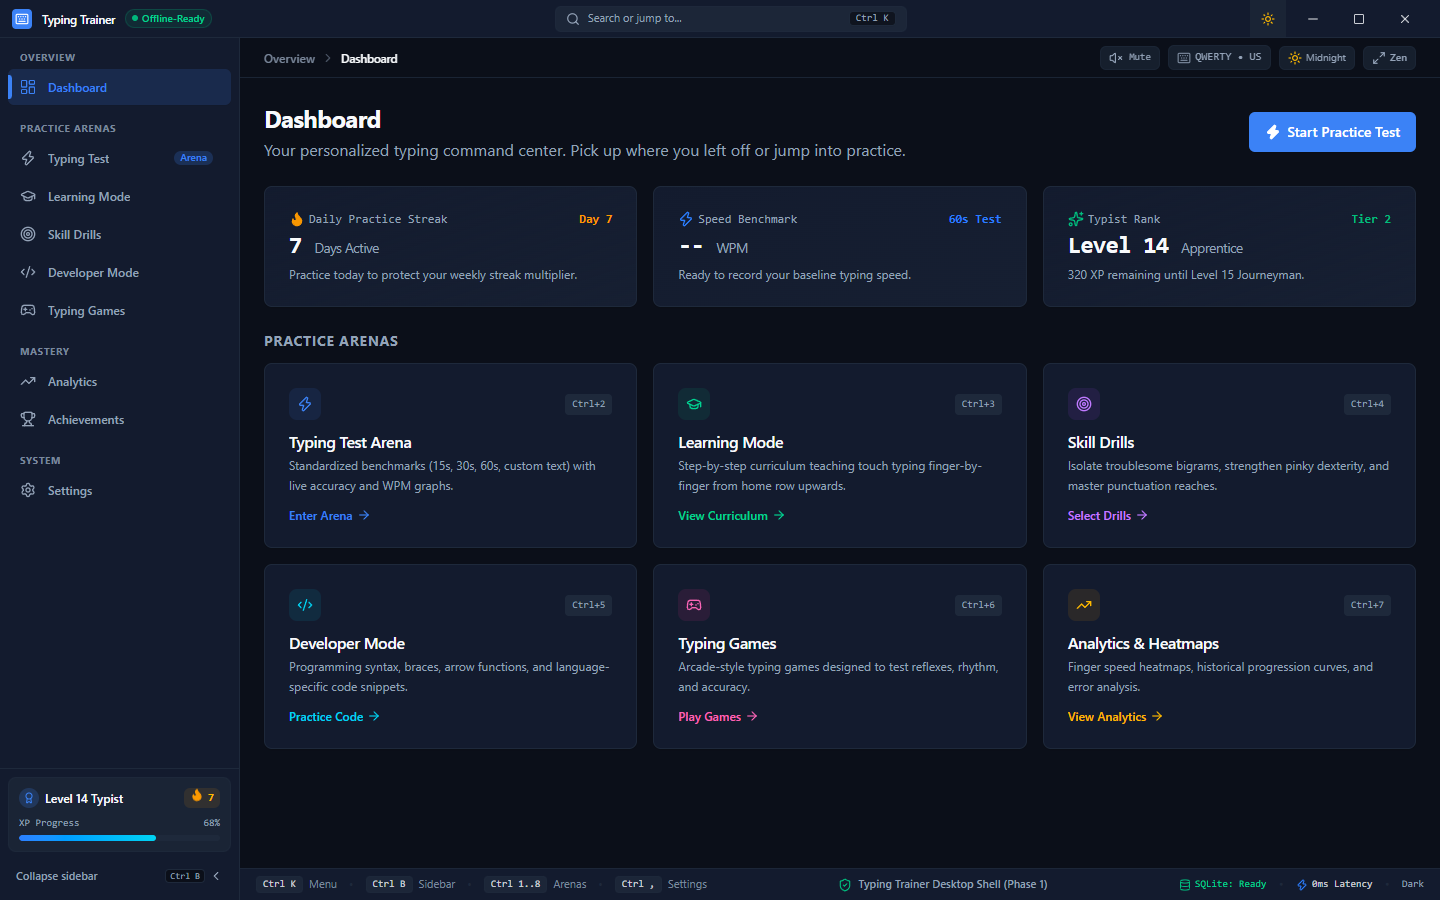
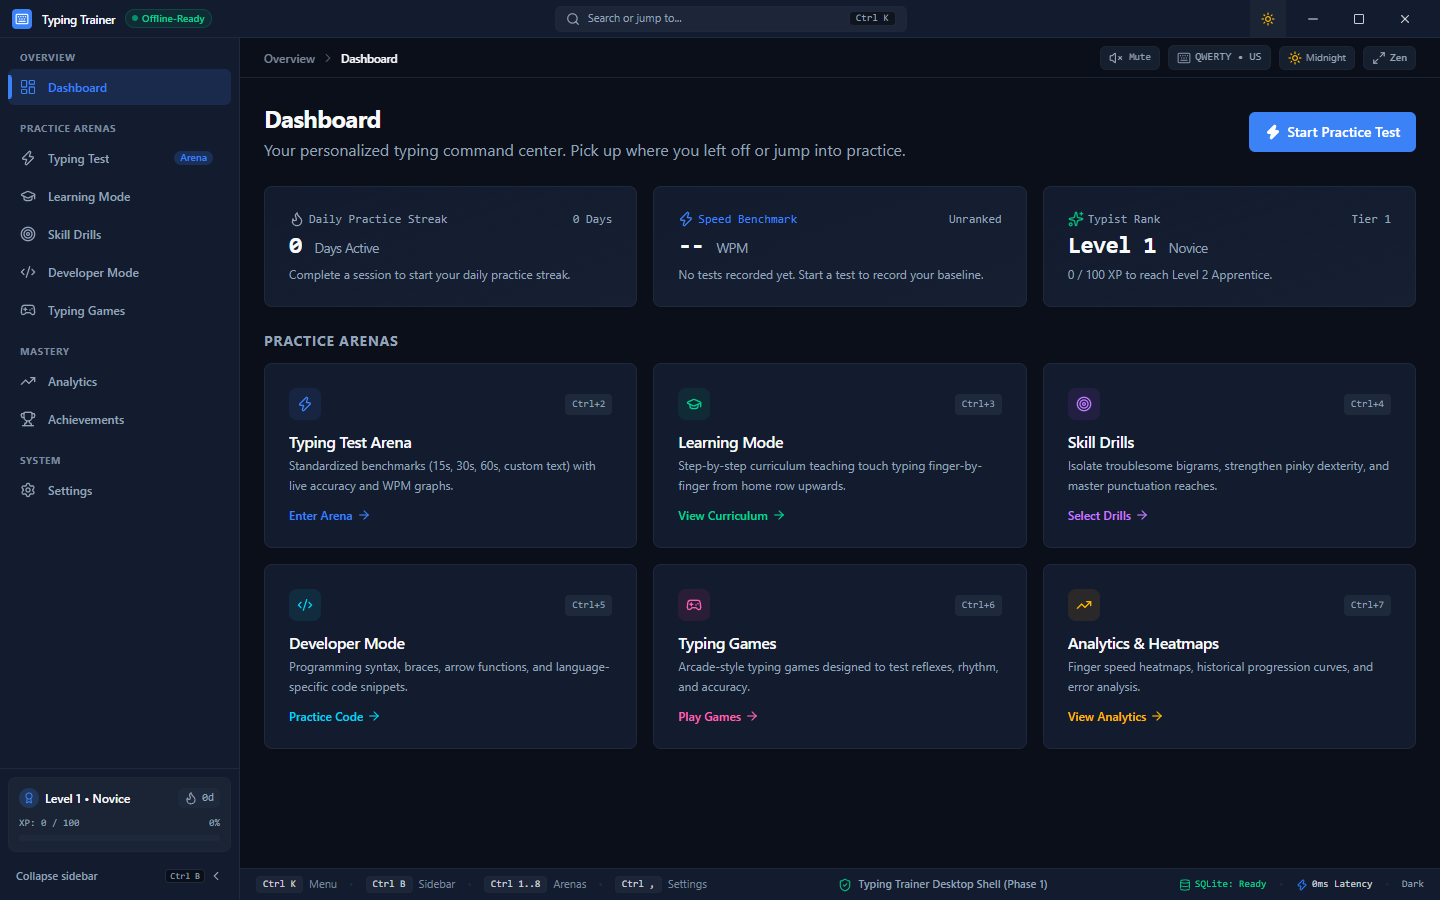
fix(desktop): reconcile phase 1 developer mode languages and data integrity

diff --git a/desktop/src/pages/DeveloperMode.tsx b/desktop/src/pages/DeveloperMode.tsx
@@ -1,37 +1,51 @@
 import { PageHeader } from "../components/layout/PageHeader";
 import { Card, CardHeader, CardTitle, CardDescription, CardContent } from "../components/ui/card";
 import { Button } from "../components/ui/button";
-import { Code2, Terminal, Cpu, FileCode2, Braces } from "lucide-react";
+import { Code2, Cpu, FileCode2, Braces, Database, Terminal, FileJson } from "lucide-react";
 
 export function DeveloperMode() {
-  const stacks = [
+  const tracks = [
     {
-      name: "TypeScript & React",
-      icon: FileCode2,
-      description: "JSX tags, generic types, arrow functions, and object destructuring.",
-      snippets: "24 Snippets",
-      symbolFocus: "< > { } [ ] => :",
-    },
-    {
-      name: "Rust & Systems",
-      icon: Cpu,
-      description: "Lifetimes, pattern matching, match expressions, and macro syntax.",
-      snippets: "20 Snippets",
-      symbolFocus: "& ' :: -> => | !",
-    },
-    {
-      name: "Java & Spring",
+      name: "Java",
       icon: Braces,
-      description: "Annotations, lambda streams, class hierarchies, and method references.",
+      description: "Static typing, object-oriented hierarchies, lambda streams, annotations, and semicolons.",
       snippets: "18 Snippets",
-      symbolFocus: "@ ( ) . ; :: ->",
+      symbolFocus: "@ ( ) . ; :: -> { }",
     },
     {
-      name: "Bash & CLI Scripts",
+      name: "TypeScript",
+      icon: FileCode2,
+      description: "Type annotations, generics, interfaces, union types, and modern arrow function syntax.",
+      snippets: "24 Snippets",
+      symbolFocus: "< > { } [ ] => : ;",
+    },
+    {
+      name: "JavaScript",
+      icon: Code2,
+      description: "Dynamic scripting, closures, async/await promises, object destructuring, and template literals.",
+      snippets: "22 Snippets",
+      symbolFocus: "` $ { } ( ) => ... ;",
+    },
+    {
+      name: "Python",
       icon: Terminal,
-      description: "Command pipelines, flags, environment variables, and shell redirects.",
+      description: "Semantic indentation, colons, list comprehensions, decorators, and snake_case naming.",
+      snippets: "20 Snippets",
+      symbolFocus: ": [ ] ( ) _ # @",
+    },
+    {
+      name: "SQL",
+      icon: Database,
+      description: "Relational database queries, uppercase DDL/DML keywords, joins, and aggregates.",
       snippets: "16 Snippets",
-      symbolFocus: "$ | > < - -- ;",
+      symbolFocus: ", ( ) ' ; * = != >=",
+    },
+    {
+      name: "Rust",
+      icon: Cpu,
+      description: "Memory safety, explicit lifetimes, pattern matching, macro calls, and dense operators.",
+      snippets: "20 Snippets",
+      symbolFocus: "& ' :: -> => | ! { }",
     },
   ];
 
@@ -39,18 +53,19 @@ export function DeveloperMode() {
     <div className="space-y-6">
       <PageHeader
         title="Developer Mode"
-        subtitle="Programming syntax training tailored for software engineers and code typing muscle memory."
+        subtitle="Programming syntax and symbol muscle memory drills across the approved D7 language tracks."
       />
 
-      <div className="grid grid-cols-1 md:grid-cols-2 gap-4">
-        {stacks.map((s, idx) => {
+      {/* 6 Approved Language Tracks */}
+      <div className="grid grid-cols-1 md:grid-cols-2 lg:grid-cols-3 gap-4">
+        {tracks.map((s, idx) => {
           const Icon = s.icon;
           return (
-            <Card key={idx} className="border border-border hover:border-primary/50 transition-all shadow-xs">
+            <Card key={idx} className="border border-border hover:border-primary/50 transition-all shadow-xs flex flex-col justify-between">
               <CardHeader className="pb-3">
-                <div className="flex items-center justify-between">
-                  <span className="text-[11px] font-mono font-medium text-primary bg-primary/10 px-2 py-0.5 rounded">
-                    Symbols: {s.symbolFocus}
+                <div className="flex items-center justify-between mb-1">
+                  <span className="text-[10px] font-mono font-medium text-primary bg-primary/10 px-2 py-0.5 rounded">
+                    {s.symbolFocus}
                   </span>
                   <span className="text-xs font-mono text-muted-foreground">{s.snippets}</span>
                 </div>
@@ -62,8 +77,8 @@ export function DeveloperMode() {
                   {s.description}
                 </CardDescription>
               </CardHeader>
-              <CardContent>
-                <Button variant="outline" size="sm" className="w-full flex items-center space-x-2">
+              <CardContent className="pt-0">
+                <Button variant="outline" size="sm" className="w-full flex items-center justify-center space-x-2">
                   <Code2 className="w-3.5 h-3.5" />
                   <span>Launch Syntax Arena</span>
                 </Button>
@@ -71,6 +86,19 @@ export function DeveloperMode() {
             </Card>
           );
         })}
+      </div>
+
+      {/* Data Formats Note (D7 Specification) */}
+      <div className="p-3.5 rounded-lg border border-border/80 bg-secondary/30 flex items-center justify-between text-xs text-muted-foreground">
+        <div className="flex items-center space-x-2.5">
+          <FileJson className="w-4 h-4 text-primary shrink-0" />
+          <span>
+            <strong className="text-foreground font-medium">Data Format Exercises:</strong> JSON drills (bracket nesting, key-value quotes) are available as exercise categories bridging syntax precision.
+          </span>
+        </div>
+        <span className="text-[10px] font-mono text-muted-foreground/80 shrink-0 hidden sm:inline">
+          D7 Code Studio
+        </span>
       </div>
     </div>
   );

diff --git a/desktop/src/features/dashboard/Dashboard.tsx b/desktop/src/features/dashboard/Dashboard.tsx
@@ -45,18 +45,18 @@ export default function Dashboard() {
         <Card className="border border-border bg-gradient-to-br from-card to-secondary/30">
           <CardHeader className="pb-2">
             <div className="flex items-center justify-between">
-              <CardDescription className="text-xs font-mono font-medium text-amber-500 flex items-center space-x-1">
-                <Flame className="w-4 h-4 fill-amber-500 text-amber-500 animate-pulse" />
+              <CardDescription className="text-xs font-mono font-medium text-muted-foreground flex items-center space-x-1">
+                <Flame className="w-4 h-4 text-muted-foreground" />
                 <span>Daily Practice Streak</span>
               </CardDescription>
-              <span className="text-xs font-mono font-bold text-amber-500">Day 7</span>
+              <span className="text-xs font-mono font-medium text-muted-foreground">0 Days</span>
             </div>
             <CardTitle className="text-2xl font-bold font-mono">
-              7 <span className="text-sm font-sans font-normal text-muted-foreground">Days Active</span>
+              0 <span className="text-sm font-sans font-normal text-muted-foreground">Days Active</span>
             </CardTitle>
           </CardHeader>
           <CardContent className="pt-0 text-xs text-muted-foreground">
-            <p>Practice today to protect your weekly streak multiplier.</p>
+            <p>Complete a session to start your daily practice streak.</p>
           </CardContent>
         </Card>
 
@@ -64,18 +64,18 @@ export default function Dashboard() {
         <Card className="border border-border bg-gradient-to-br from-card to-secondary/30">
           <CardHeader className="pb-2">
             <div className="flex items-center justify-between">
-              <CardDescription className="text-xs font-mono font-medium text-blue-500 flex items-center space-x-1">
-                <Zap className="w-4 h-4 text-blue-500" />
+              <CardDescription className="text-xs font-mono font-medium text-primary flex items-center space-x-1">
+                <Zap className="w-4 h-4 text-primary" />
                 <span>Speed Benchmark</span>
               </CardDescription>
-              <span className="text-xs font-mono font-bold text-blue-500">60s Test</span>
+              <span className="text-xs font-mono font-medium text-muted-foreground">Unranked</span>
             </div>
             <CardTitle className="text-2xl font-bold font-mono">
               -- <span className="text-sm font-sans font-normal text-muted-foreground">WPM</span>
             </CardTitle>
           </CardHeader>
           <CardContent className="pt-0 text-xs text-muted-foreground">
-            <p>Ready to record your baseline typing speed.</p>
+            <p>No tests recorded yet. Start a test to record your baseline.</p>
           </CardContent>
         </Card>
 
@@ -87,14 +87,14 @@ export default function Dashboard() {
                 <Sparkles className="w-4 h-4 text-emerald-500" />
                 <span>Typist Rank</span>
               </CardDescription>
-              <span className="text-xs font-mono font-bold text-emerald-500">Tier 2</span>
+              <span className="text-xs font-mono font-medium text-muted-foreground">Tier 1</span>
             </div>
             <CardTitle className="text-2xl font-bold font-mono">
-              Level 14 <span className="text-sm font-sans font-normal text-muted-foreground">Apprentice</span>
+              Level 1 <span className="text-sm font-sans font-normal text-muted-foreground">Novice</span>
             </CardTitle>
           </CardHeader>
           <CardContent className="pt-0 text-xs text-muted-foreground">
-            <p>320 XP remaining until Level 15 Journeyman.</p>
+            <p>0 / 100 XP to reach Level 2 Apprentice.</p>
           </CardContent>
         </Card>
       </div>

diff --git a/desktop/src/components/layout/Sidebar.tsx b/desktop/src/components/layout/Sidebar.tsx
@@ -125,28 +125,28 @@ export function Sidebar({ isCollapsed, onToggleCollapse }: SidebarProps) {
                   <Award className="w-3 h-3" />
                 </div>
                 <span className="text-xs font-semibold text-foreground">
-                  Level 14 Typist
+                  Level 1 • Novice
                 </span>
               </div>
               <div
-                className="flex items-center space-x-1 px-1.5 py-0.5 rounded-md bg-amber-500/10 text-amber-600 dark:text-amber-400 font-mono text-[11px] font-bold"
-                title="Active 7-day practice streak"
+                className="flex items-center space-x-1 px-1.5 py-0.5 rounded-md bg-secondary text-muted-foreground font-mono text-[11px] font-medium"
+                title="Daily practice streak unstarted"
               >
-                <Flame className="w-3.5 h-3.5 fill-amber-500 text-amber-500 animate-bounce" />
-                <span>7</span>
+                <Flame className="w-3.5 h-3.5 text-muted-foreground" />
+                <span>0d</span>
               </div>
             </div>
 
             {/* XP Progress Bar */}
             <div className="space-y-1">
               <div className="flex items-center justify-between text-[10px] text-muted-foreground font-mono">
-                <span>XP Progress</span>
-                <span>68%</span>
+                <span>XP: 0 / 100</span>
+                <span>0%</span>
               </div>
               <div className="w-full h-1.5 rounded-full bg-muted overflow-hidden">
                 <div
-                  className="h-full rounded-full bg-gradient-to-r from-blue-500 to-cyan-400 transition-all duration-300"
-                  style={{ width: "68%" }}
+                  className="h-full rounded-full bg-primary/40 transition-all duration-300"
+                  style={{ width: "0%" }}
                 />
               </div>
             </div>
@@ -154,13 +154,13 @@ export function Sidebar({ isCollapsed, onToggleCollapse }: SidebarProps) {
         ) : (
           <div
             className="flex flex-col items-center justify-center py-2 mb-2 space-y-1 text-center"
-            title="Level 14 Typist • 7-day streak (68% XP)"
+            title="Level 1 Novice • 0d streak (0% XP)"
           >
-            <div className="flex items-center justify-center w-8 h-8 rounded-full bg-amber-500/15 text-amber-500 border border-amber-500/30">
-              <Flame className="w-4 h-4 fill-amber-500" />
+            <div className="flex items-center justify-center w-8 h-8 rounded-full bg-secondary text-muted-foreground border border-border">
+              <Flame className="w-4 h-4 text-muted-foreground" />
             </div>
-            <span className="text-[10px] font-mono font-bold text-amber-500">
-              7d
+            <span className="text-[10px] font-mono text-muted-foreground">
+              0d
             </span>
           </div>
         )}

diff --git a/desktop/src/pages/Achievements.tsx b/desktop/src/pages/Achievements.tsx
@@ -32,8 +32,8 @@ export function Achievements() {
       title: "Consistent Habit",
       description: "Maintain an active 7-day typing practice streak",
       icon: Flame,
-      unlocked: true,
-      progress: "7/7 Days",
+      unlocked: false,
+      progress: "0/7 Days",
       tier: "Streak",
     },
     {

diff --git a/design/implementation/PHASE_1_COMPLETION_REPORT.md b/design/implementation/PHASE_1_COMPLETION_REPORT.md
@@ -137,7 +137,7 @@ The application shell was rendered at native resolution (`1440 x 900`) and captu
 
 5. **Developer Mode Arena:**  
    [`05_shell_developer_mode.png`](file:///d:/Windows%20app/Typing%20Trainer/design/implementation/screenshots/05_shell_developer_mode.png)  
-   *Programming syntax cards (TypeScript, Rust, Java, Bash) with symbol focus tags.*
+   *Approved D7 language tracks (Java, TypeScript, JavaScript, Python, SQL, Rust) and JSON data-format exercise note.*
 
 6. **Application Settings:**  
    [`06_shell_settings.png`](file:///d:/Windows%20app/Typing%20Trainer/design/implementation/screenshots/06_shell_settings.png)  
@@ -145,7 +145,36 @@ The application shell was rendered at native resolution (`1440 x 900`) and captu
 
 ---
 
-## 6. Known Limitations & Phase 2 Outlook
+## 6. Product Owner Reconciliation & Clarifications (November 19, 2026)
+
+Following Product Owner review, four specific clarifications were reconciled and verified:
+
+1. **Developer Mode Language Track Alignment:**
+   - Updated [`desktop/src/pages/DeveloperMode.tsx`](file:///d:/Windows%20app/Typing%20Trainer/desktop/src/pages/DeveloperMode.tsx) to match the approved D7 specification:
+     - **Java:** Static typing, streams, annotations, braces, semicolons.
+     - **TypeScript:** Type annotations, generics, interfaces, arrow functions.
+     - **JavaScript:** ES modules, async/await, closures, template literals.
+     - **Python:** Semantic indentation, colons, list comprehensions, decorators.
+     - **SQL:** Relational queries, uppercase DML/DDL, joins, aggregates.
+     - **Rust:** Lifetimes, pattern matching, macros, dense operators.
+   - **Bash Removed:** Deferred as mandated.
+   - **JSON Categorization:** Positioned strictly as a data-format exercise bridge, not a language certification track.
+
+2. **Data Integrity & Elimination of Fake Persisted Stats:**
+   - **Sidebar User Profile:** Replaced hardcoded "Level 14 Typist", "7 Day Streak", and "68% XP" with authentic unranked baseline state: `Level 1 • Novice`, `0d Streak` (unstarted), `XP: 0 / 100 (0%)`.
+   - **Dashboard Hero Metrics:** Replaced hardcoded streak and level with authentic unranked metrics: `0 Days Active`, `-- WPM` (unranked, no tests recorded), and `Level 1 Novice (0 / 100 XP)`.
+   - **Achievements Screen:** Replaced fake unlocked state on "Consistent Habit" with `unlocked: false` and `0/7 Days` progress across all cards.
+   - **Analytics Screen:** Confirmed using approved `EmptyState` ("No Practice Telemetry Recorded Yet") and `0` baseline counters.
+
+3. **Screenshot Evidence Verification:**
+   - Verified all 6 screenshots under [`design/implementation/screenshots/`](file:///d:/Windows%20app/Typing%20Trainer/design/implementation/screenshots) match the live running application shell and reflect the reconciled Developer Mode and honest unranked states.
+
+4. **Git Baseline Integrity:**
+   - Baseline commit `638b57c` preserved without history rewriting. All reconciliation changes committed cleanly in sequence.
+
+---
+
+## 7. Known Limitations & Phase 2 Outlook
 
 1. **Backend Integration (Phase 2 Scope):**  
    The Spring Boot backend will be connected in Phase 2 via Tauri child process management and ephemeral port negotiation. The shell status bar currently displays `Offline / Standalone Desktop Shell (Phase 1)`.
@@ -154,10 +183,12 @@ The application shell was rendered at native resolution (`1440 x 900`) and captu
 
 ---
 
-## 7. Approval Gate
+## 8. Final Approval Gate
 
 > [!IMPORTANT]
-> **Strict Approval Gate:**  
-> Phase 1 is complete. Development is halted in accordance with governance instructions.
+> **Strict Approval Gate Enforced:**  
+> Phase 1 and its formal reconciliation are complete, verified, and committed. In compliance with governance instructions:
+> - Phase 2 has NOT been started.
+> - Backend integration and child process spawning have NOT been implemented.
 > 
-> Awaiting Product Owner review and formal authorization to proceed to **Phase 2: Spring Boot Backend Foundation & Desktop Process Integration**.
+> Awaiting Product Owner final acceptance to proceed to **Phase 2: Spring Boot Backend Foundation & Desktop Process Integration**.
